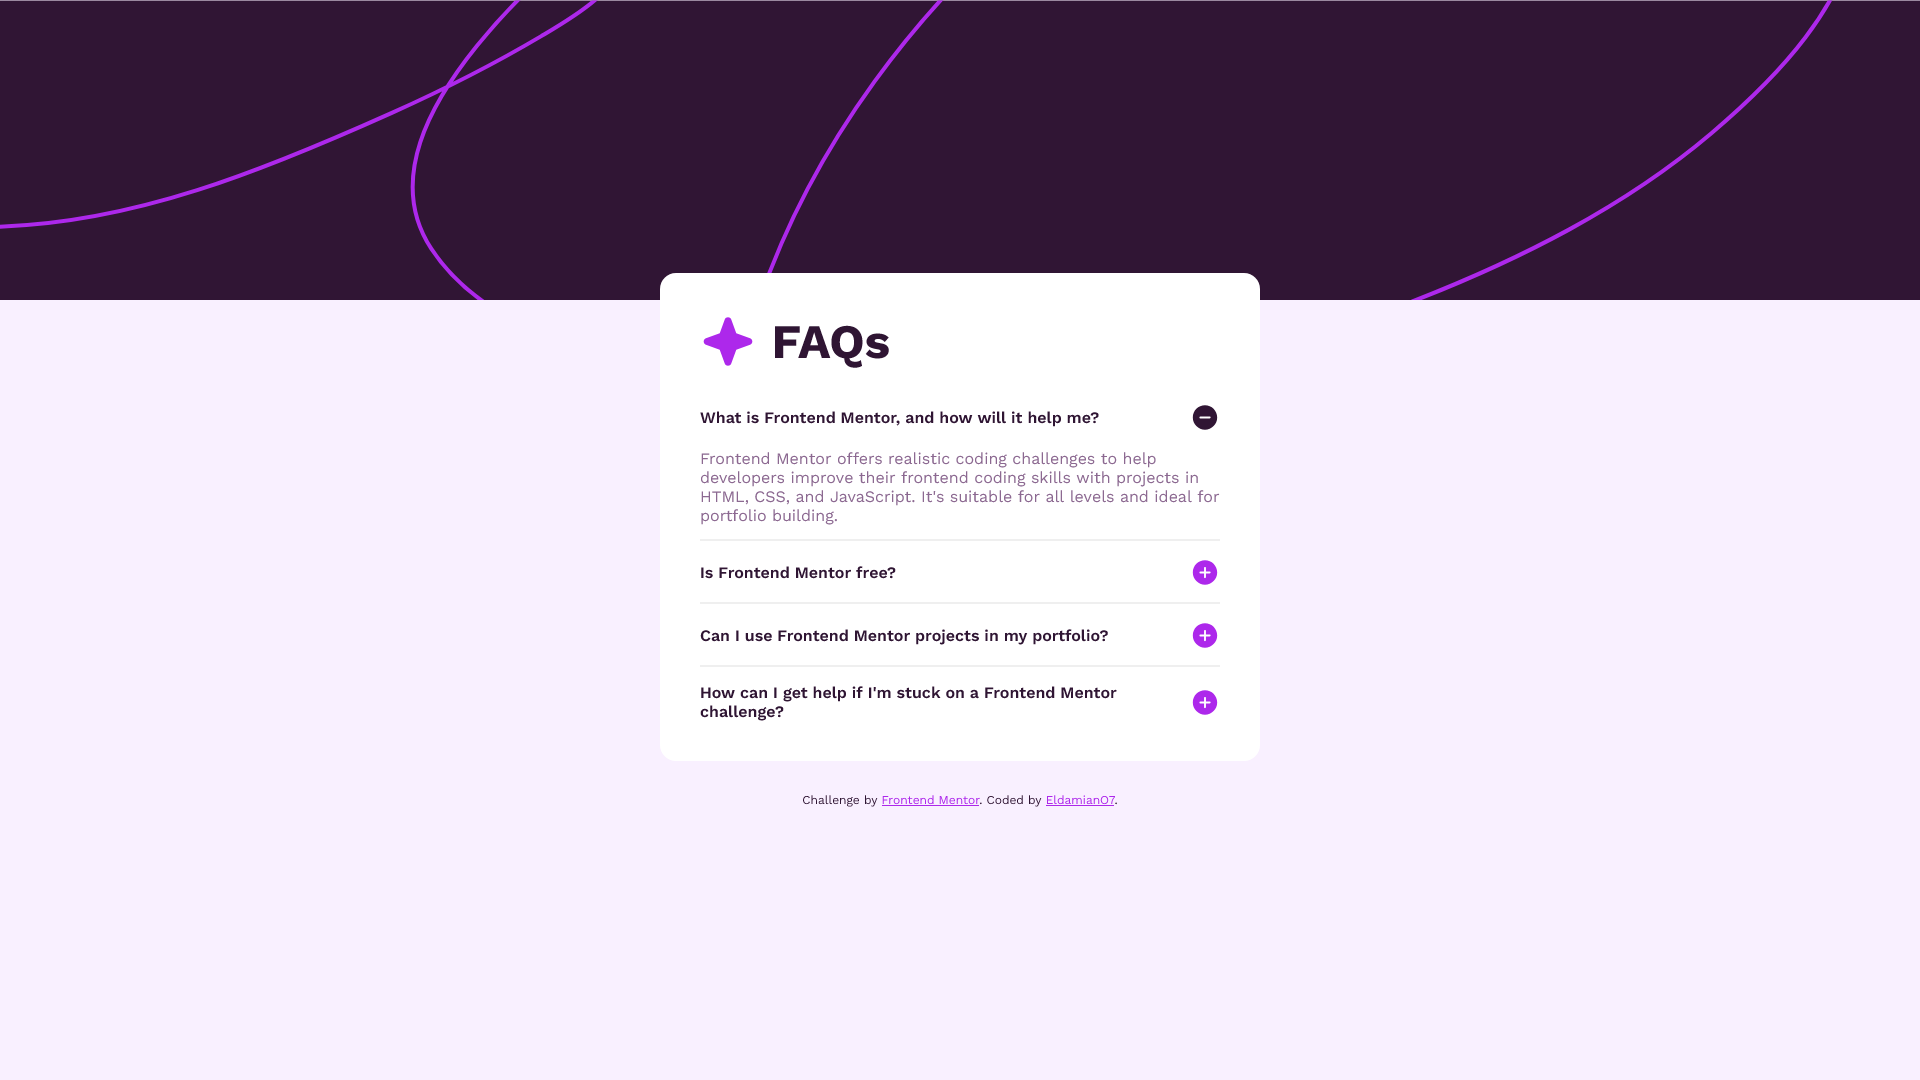
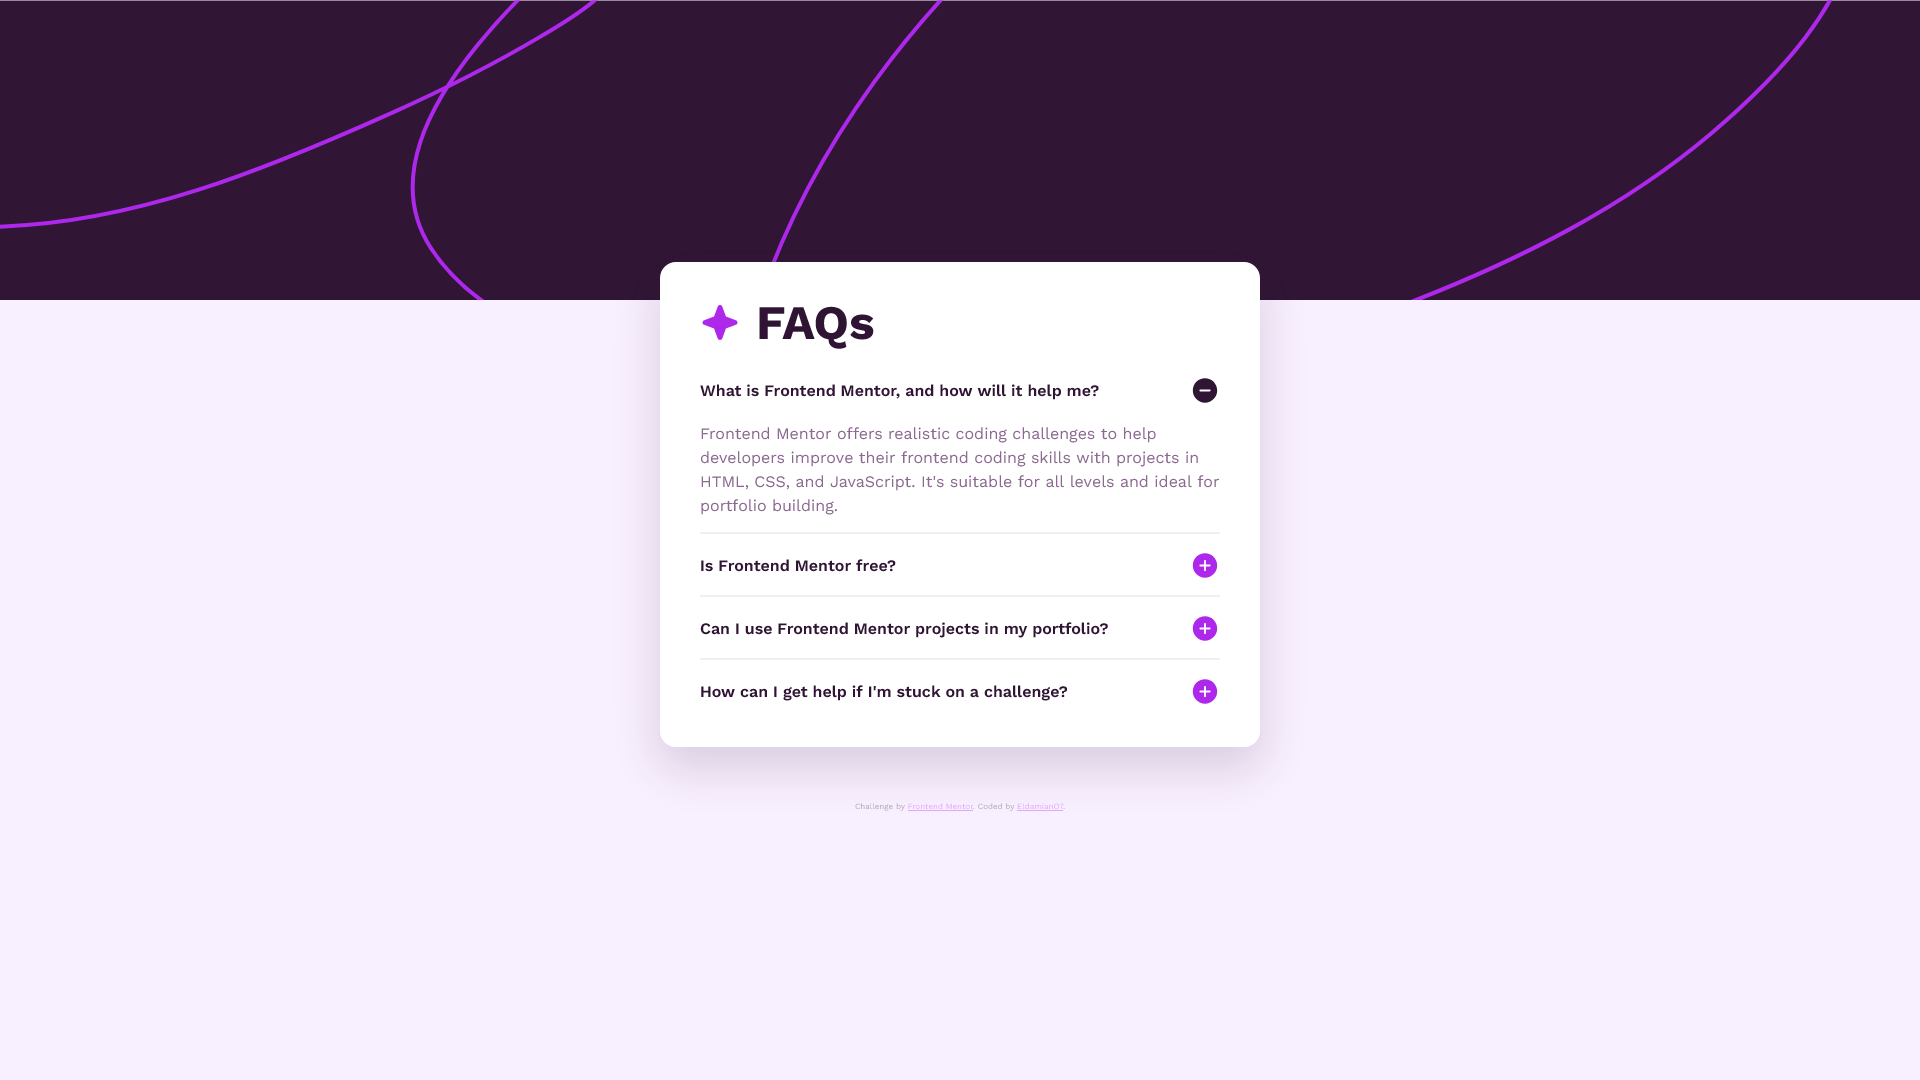
Moved JS to it's own file ;  renamed index.css by main.css ; modified html to add more semantic tags ; better accessibility and better screen reader support

diff --git a/index.html b/index.html
@@ -18,26 +18,31 @@
       rel="stylesheet"
     />
 
-    <link rel="stylesheet" href="styles/index.css" />
+    <link rel="stylesheet" href="styles/main.css" />
 
     <title>Frontend Mentor | FAQ accordion</title>
   </head>
   <body>
     <div class="background-img"></div>
 
-    <div class="center">
-      <div class="faq-window">
-        <div class="faq-window__about">
+    <main class="center">
+      <article class="faq-window">
+        <header class="faq-window__about">
           <img src="assets/images/icon-star.svg" alt="Star" />
           <h1>FAQs</h1>
-        </div>
+        </header>
 
         <div class="faq-window__questions">
-          <div class="question">
-            <button class="question-header" aria-expanded="true">
-              <p class="question__title">
+          <section class="question" aria-labelledby="question1-title">
+            <button
+              id="question1-title"
+              class="question-header"
+              type="button"
+              aria-expanded="true"
+            >
+              <span class="question__title">
                 What is Frontend Mentor, and how will it help me?
-              </p>
+              </span>
               <img
                 class="expand-icon"
                 src="assets/images/icon-minus.svg"
@@ -53,12 +58,16 @@
                 ideal for portfolio building.
               </p>
             </div>
-          </div>
+          </section>
 
-          <div class="question">
-            <button class="question-header" aria-expanded="false">
-              <p class="question__title">Is Frontend Mentor free?</p>
-
+          <section class="question" aria-labelledby="question2-title">
+            <button
+              id="question2-title"
+              class="question-header"
+              type="button"
+              aria-expanded="false"
+            >
+              <span class="question__title">Is Frontend Mentor free?</span>
               <img
                 class="expand-icon"
                 src="assets/images/icon-plus.svg"
@@ -72,13 +81,18 @@
                 challenges...
               </p>
             </div>
-          </div>
+          </section>
 
-          <div class="question">
-            <button class="question-header" aria-expanded="false">
-              <p class="question__title">
+          <section class="question" aria-labelledby="question3-title">
+            <button
+              id="question3-title"
+              class="question-header"
+              type="button"
+              aria-expanded="false"
+            >
+              <span class="question__title">
                 Can I use Frontend Mentor projects in my portfolio?
-              </p>
+              </span>
               <img
                 class="expand-icon"
                 src="assets/images/icon-plus.svg"
@@ -93,13 +107,18 @@
                 potential employers!
               </p>
             </div>
-          </div>
+          </section>
 
-          <div class="question">
-            <button class="question-header" aria-expanded="false">
-              <p class="question__title">
-                How can I get help if I'm stuck on a Frontend Mentor challenge?
-              </p>
+          <section class="question" aria-labelledby="question4-title">
+            <button
+              id="question4-title"
+              class="question-header"
+              type="button"
+              aria-expanded="false"
+            >
+              <span class="question__title">
+                How can I get help if I'm stuck on a challenge?
+              </span>
               <img
                 class="expand-icon"
                 src="assets/images/icon-plus.svg"
@@ -114,11 +133,11 @@
                 and seek support from other community members.
               </p>
             </div>
-          </div>
+          </section>
         </div>
-      </div>
+      </article>
 
-      <div class="attribution">
+      <footer class="attribution">
         Challenge by
         <a href="https://www.frontendmentor.io?ref=challenge" target="_blank"
           >Frontend Mentor</a
@@ -128,29 +147,9 @@
           target="_blank"
           >EldamianO7</a
         >.
-      </div>
-    </div>
+      </footer>
+    </main>
 
-    <script>
-      const buttons = document.querySelectorAll(".question-header");
-
-      buttons.forEach((button) => {
-        button.addEventListener("click", () => {
-          const content = button
-            .closest(".question")
-            .querySelector(".question-content");
-          const icon = button.querySelector(".expand-icon");
-          const isOpen = content.classList.toggle("question-content--open");
-
-          icon.src = isOpen
-            ? "assets/images/icon-minus.svg"
-            : "assets/images/icon-plus.svg";
-
-          icon.alt = isOpen ? "Fold icon" : "Unfold icon";
-
-          button.setAttribute("aria-expanded", isOpen);
-        });
-      });
-    </script>
+    <script src="scripts/main.js"></script>
   </body>
 </html>

diff --git a/styles/main.css b/styles/main.css
@@ -9,6 +9,7 @@
 html {
   font-family: "Work Sans", sans-serif;
   color: var(--Purple950);
+  line-height: 1.5rem;
 }
 
 h1 {
@@ -35,6 +36,7 @@ button:hover {
   --Purple950: hsl(292, 42%, 14%);
   --PurpleHover: hsl(281, 83%, 54%);
   --Dropshadow: hsla(292, 42%, 14%, 0.15);
+  --GrayTransparentBorder: rgba(100, 100, 100, 0.1);
 }
 
 body {
@@ -80,6 +82,7 @@ body {
 
 .faq-window__about {
   display: flex;
+  align-items: center;
   gap: 1rem;
 }
 
@@ -101,7 +104,7 @@ body {
   left: 0;
   right: 0;
   content: "";
-  border: 1px solid rgba(100, 100, 100, 0.1);
+  border: 1px solid var(--GrayTransparentBorder);
 }
 
 .question-header {
@@ -150,7 +153,7 @@ body {
   color: var(--PurpleHover);
 }
 
-@media (min-width: 375px) {
+@media (min-width: 23.4375rem) {
   .background-img {
     background-image: url("../assets/images/background-pattern-desktop.svg");
   }

diff --git a/scripts/main.js b/scripts/main.js
@@ -1,0 +1,19 @@
+const buttons = document.querySelectorAll(".question-header");
+
+buttons.forEach((button) => {
+  button.addEventListener("click", () => {
+    const content = button
+      .closest(".question")
+      .querySelector(".question-content");
+    const icon = button.querySelector(".expand-icon");
+    const isOpen = content.classList.toggle("question-content--open");
+
+    icon.src = isOpen
+      ? "assets/images/icon-minus.svg"
+      : "assets/images/icon-plus.svg";
+
+    icon.alt = isOpen ? "Fold icon" : "Unfold icon";
+
+    button.setAttribute("aria-expanded", isOpen);
+  });
+});
